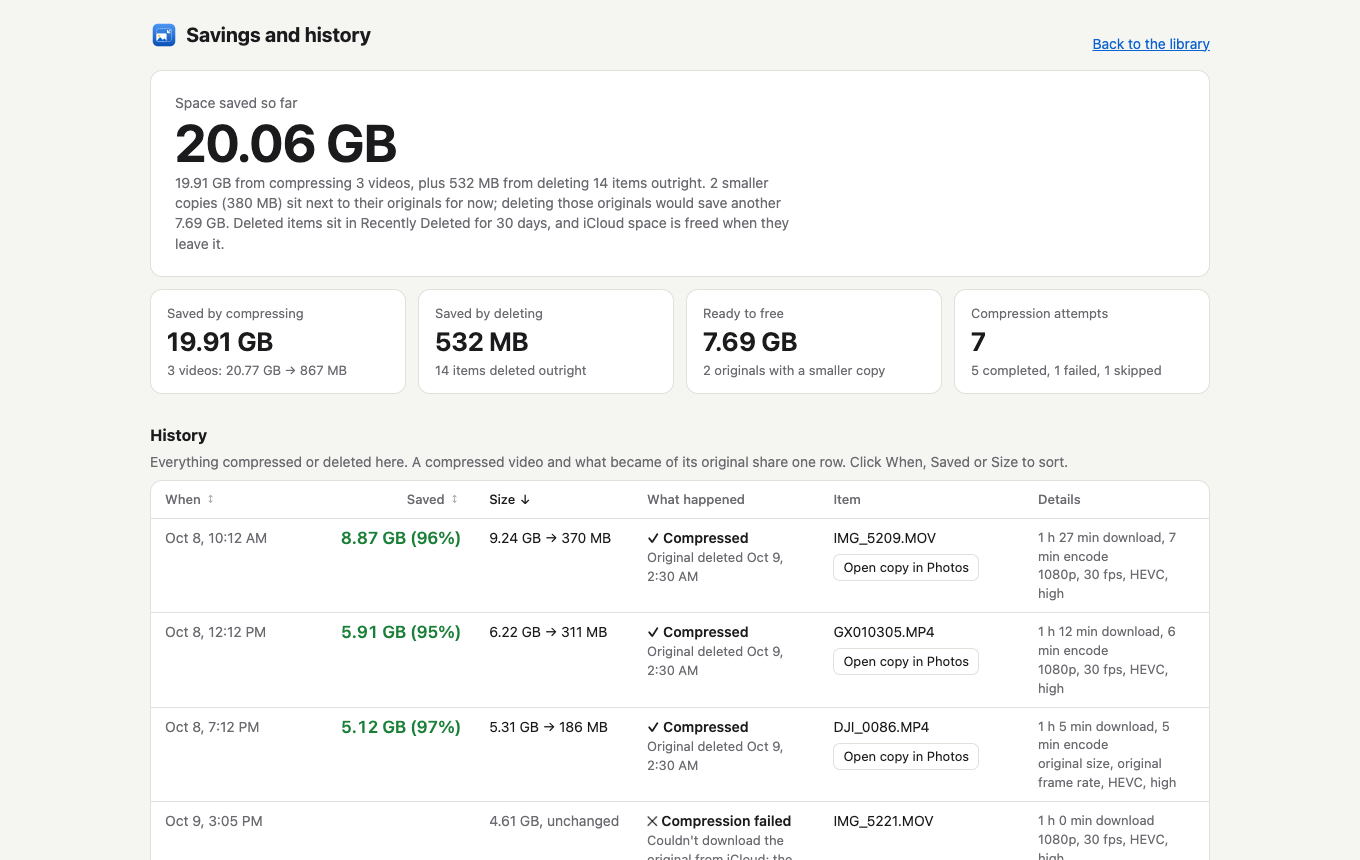
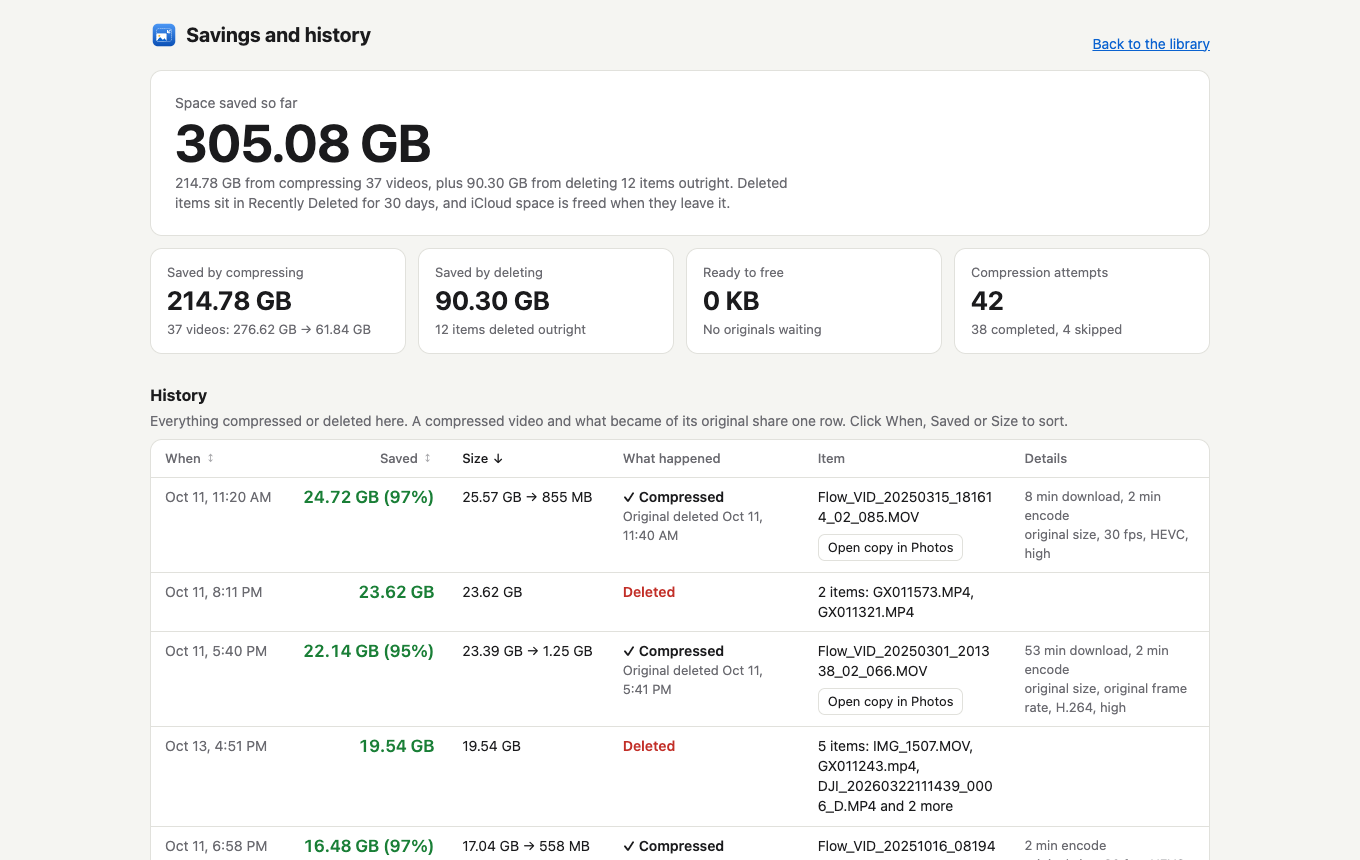
README: the Savings screenshot is now the author's real history
Sorted by size, largest first: 305 GB saved, 37 videos compressed from
277 GB to 62 GB. The library and compress screenshots and the demo still
use made-up data and placeholder photos, and the README now says which
is which.

diff --git a/README.md b/README.md
@@ -45,8 +45,9 @@ is uploaded anywhere.
 |---|---|---|
 | ![The library view, largest first](docs/screenshot-library.png) | ![The compress dialog with a per-video size estimate](docs/screenshot-shrink.png) | ![The savings page](docs/screenshot-savings.png) |
 
-The screenshots use made-up data. The pictures in them and in the demo are free placeholder photos from
-[Lorem Picsum](https://picsum.photos), which draws on [Unsplash](https://unsplash.com/license).
+The library and compress screenshots use made-up data; the Savings one is the author's own history. The pictures
+in those two screenshots and in the demo are free placeholder photos from [Lorem Picsum](https://picsum.photos),
+which draws on [Unsplash](https://unsplash.com/license).
 
 ## How compressing works
 
